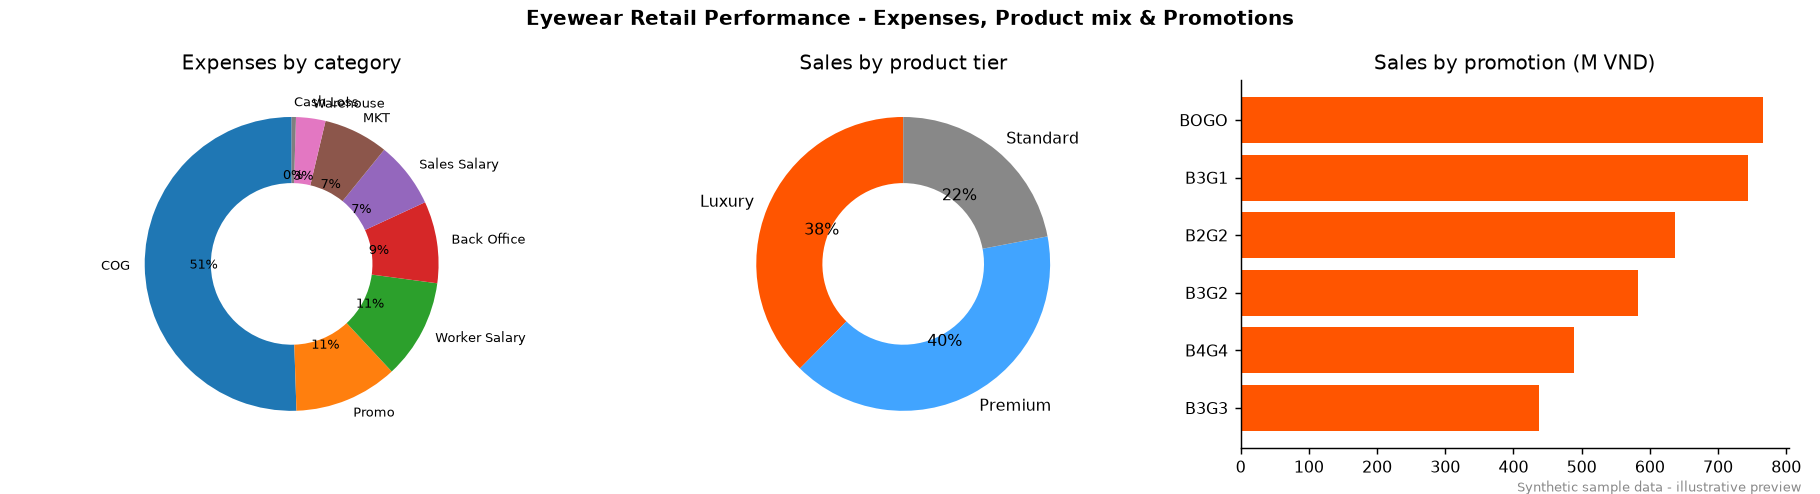
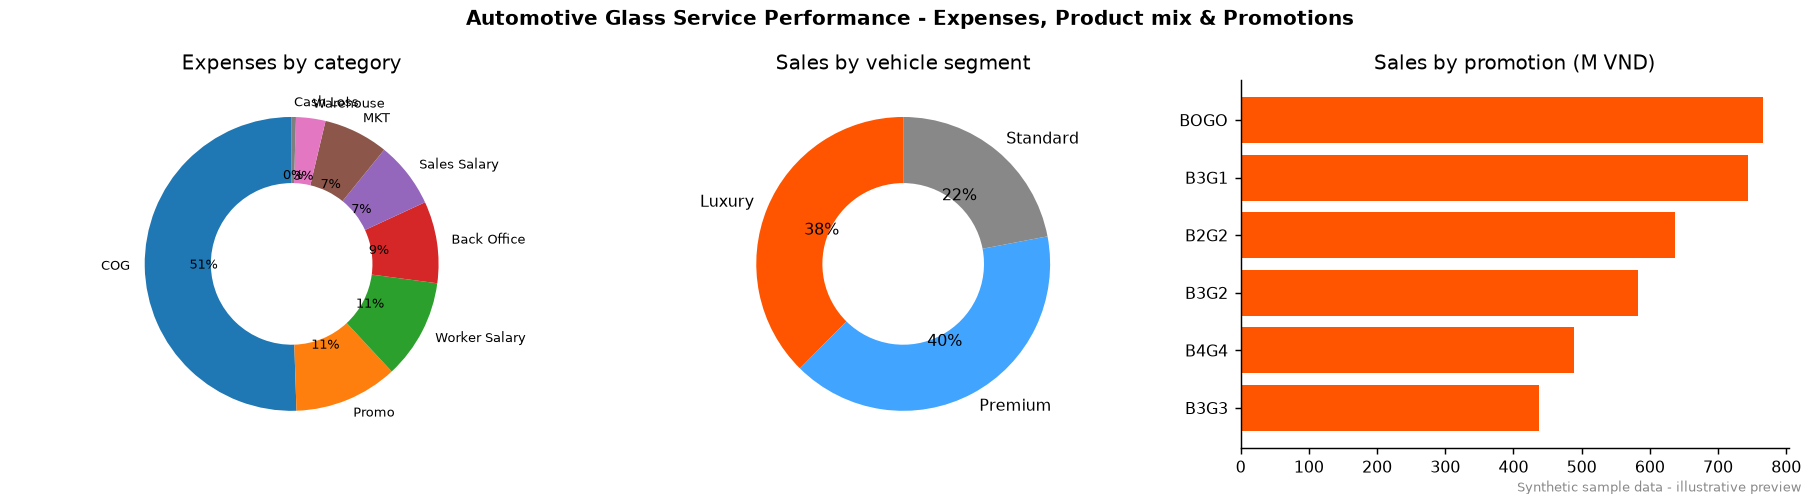
Correct Kieng dashboard description: automotive glass service business

Changed region(s): [[0.2462, 0.0, 0.7385, 0.0607], [0.4308, 0.0911, 0.5846, 0.1518]]

diff --git a/tools/generate.py b/tools/generate.py
@@ -28,7 +28,7 @@ def note(fig): fig.text(0.99, 0.005, "Synthetic sample data - illustrative previ
 
 # ============================ RETAIL STORE PERFORMANCE ============================
 stores = pd.DataFrame({"store_id": ["S1", "S2", "S3", "S4"],
-                       "store_name": ["Store 1 - District 1", "Store 2 - District 3", "Store 3 - District 7", "Store 4 - Thu Duc"],
+                       "store_name": ["Branch 1 - District 1", "Branch 2 - District 3", "Branch 3 - District 7", "Branch 4 - Thu Duc"],
                        "size_factor": [1.3, 1.0, 0.9, 0.7]})
 stores.to_csv(os.path.join(RET, "data", "stores.csv"), index=False)
 promos = pd.DataFrame({"promotion_name": ["None", "BOGO", "B2G2", "B3G1", "B3G2", "B3G3", "B4G4"],
@@ -52,7 +52,7 @@ for d in cal.date:
             rows.append((oid, d.date(), s.store_id, tier, promo, amount, round(base * share * 0.4 / 1000) * 1000 if promo != "None" else 0,
                          round(amount * rng.uniform(.38, .46) / 1000) * 1000, rng.choice(staff)))
             oid += 1
-rev = pd.DataFrame(rows, columns=["order_id", "date", "store_id", "product_tier", "promotion_name", "amount_vnd", "promo_expense_vnd", "cogs_vnd", "sales_staff"])
+rev = pd.DataFrame(rows, columns=["order_id", "date", "store_id", "vehicle_segment", "promotion_name", "amount_vnd", "promo_expense_vnd", "cogs_vnd", "sales_staff"])
 rev.to_csv(os.path.join(RET, "data", "daily_revenue.csv"), index=False)
 rev["date"] = pd.to_datetime(rev.date); rev["m"] = rev.date.dt.month
 
@@ -89,7 +89,7 @@ m_profit = m_sales - m_exp
 mn = [p.strftime("%b") for p in months]
 
 # retail charts
-fig, ax = plt.subplots(1, 3, figsize=(14, 3.6)); fig.suptitle("Eyewear Retail Performance - Overview", fontweight="bold")
+fig, ax = plt.subplots(1, 3, figsize=(14, 3.6)); fig.suptitle("Automotive Glass Service Performance - Overview", fontweight="bold")
 ax[0].plot(mn, m_sales / 1e6, color=C["main"], marker="o", label="Sales"); ax[0].plot(mn, m_exp / 1e6, color=C["grey"], marker="o", label="Expenses")
 ax[0].set_title("Sales vs Expenses (M VND)"); ax[0].legend(frameon=False)
 ax[1].bar(mn, m_profit / 1e6, color=[C["green"] if v >= 0 else C["red"] for v in m_profit]); ax[1].set_title("Profit by month (M VND)")
@@ -97,20 +97,20 @@ mom = m_sales.pct_change() * 100
 ax[2].bar(mn[1:], mom.iloc[1:], color=[C["green"] if v >= 0 else C["red"] for v in mom.iloc[1:]]); ax[2].set_title("Sales MoM %"); ax[2].axhline(0, color="#333", lw=.6)
 plt.setp(ax, xlabel=""); [a.tick_params(axis="x", rotation=45) for a in ax]; note(fig); fig.tight_layout(); fig.savefig(os.path.join(RET, "images", "01-overview.png"), dpi=130); plt.close(fig)
 
-fig, ax = plt.subplots(1, 3, figsize=(14, 3.8)); fig.suptitle("Eyewear Retail Performance - Expenses, Product mix & Promotions", fontweight="bold")
+fig, ax = plt.subplots(1, 3, figsize=(14, 3.8)); fig.suptitle("Automotive Glass Service Performance - Expenses, Product mix & Promotions", fontweight="bold")
 cat = exp.groupby("category").amount_vnd.sum().sort_values(ascending=False)
 ax[0].pie(cat, labels=cat.index, autopct="%1.0f%%", startangle=90, wedgeprops=dict(width=.45), textprops={"fontsize": 7}); ax[0].set_title("Expenses by category")
-tier = rev.groupby("product_tier").amount_vnd.sum()
-ax[1].pie(tier, labels=tier.index, autopct="%1.0f%%", startangle=90, wedgeprops=dict(width=.45), colors=[C["main"], C["blue"], C["grey"]]); ax[1].set_title("Sales by product tier")
+tier = rev.groupby("vehicle_segment").amount_vnd.sum()
+ax[1].pie(tier, labels=tier.index, autopct="%1.0f%%", startangle=90, wedgeprops=dict(width=.45), colors=[C["main"], C["blue"], C["grey"]]); ax[1].set_title("Sales by vehicle segment")
 pr = rev[rev.promotion_name != "None"].groupby("promotion_name").amount_vnd.sum().sort_values()
 ax[2].barh(pr.index, pr / 1e6, color=C["main"]); ax[2].set_title("Sales by promotion (M VND)")
 note(fig); fig.tight_layout(); fig.savefig(os.path.join(RET, "images", "02-expenses-promotions.png"), dpi=130); plt.close(fig)
 
-fig, ax = plt.subplots(1, 2, figsize=(14, 3.6)); fig.suptitle("Eyewear Retail Performance - Staff KPI & Stores", fontweight="bold")
+fig, ax = plt.subplots(1, 2, figsize=(14, 3.6)); fig.suptitle("Automotive Glass Service Performance - Staff KPI & Branches", fontweight="bold")
 piv = kpi.pivot(index="month", columns="staff", values="total_made_vnd") / 1e6
 piv.plot(kind="bar", ax=ax[0], width=.85); ax[0].axhline(200, color="#333", ls="--", lw=.8); ax[0].set_title("Total made by staff vs KPI target (M VND)"); ax[0].legend(frameon=False, ncol=5, fontsize=7); ax[0].set_xticklabels(mn, rotation=45)
 ss = rev.merge(stores, on="store_id").groupby("store_name").amount_vnd.sum().sort_values()
-ax[1].barh(ss.index, ss / 1e6, color=C["main"]); ax[1].set_title("Annual sales by store (M VND)")
+ax[1].barh(ss.index, ss / 1e6, color=C["main"]); ax[1].set_title("Annual sales by branch (M VND)")
 note(fig); fig.tight_layout(); fig.savefig(os.path.join(RET, "images", "03-staff-stores.png"), dpi=130); plt.close(fig)
 
 best = m_sales.idxmax(); worst = m_sales.idxmin()
@@ -132,13 +132,13 @@ open(os.path.join(RET, "reports", "sample-annual-report-2025.md"), "w", encoding
 ## Highlights
 - Peak month: **{mn[best-1]}** ({m_sales[best]/1e6:,.0f} M VND); weakest month: **{mn[worst-1]}** ({m_sales[worst]/1e6:,.0f} M VND). Sales are seasonal, rising toward year-end.
 - COG is the largest cost block at {cogp:.0%} of sales; promotions cost {cat['Promo']/m_sales.sum():.1%} of sales.
-- Best performing promotion by sales: **{top_promo}**. Best store: **{top_store}**.
+- Best performing promotion by sales: **{top_promo}**. Best branch: **{top_store}**.
 - {int((kpi.kpi_achievement>=1).sum())} of {len(kpi)} staff-months reached the KPI target.
 
 ## Recommended actions (example format)
 1. Review promotion mix: compare sales lift against promo expense per promotion before extending budgets.
 2. Prepare inventory and staffing earlier for the Nov-Dec peak.
-3. Track cash-loss lines monthly per store to find outliers early.
+3. Track cash-loss lines monthly per branch to find outliers early.
 """)
 
 # ============================ CAR RENTAL OVERVIEW ============================
@@ -224,4 +224,6 @@ open(os.path.join(CAR, "reports", "sample-annual-report-2025.md"), "w", encoding
 """)
 print("done", len(rev), len(rw))
 print(m_sales.sum() / 1e6, m_profit.sum() / 1e6, r_rev.sum(), r_profit.sum())
+
+
 

diff --git a/projects/retail-store-performance-powerbi/README.md b/projects/retail-store-performance-powerbi/README.md
@@ -1,4 +1,4 @@
-# Eyewear Retail Performance Dashboard (Kiếng) — Power BI
+# Automotive Glass Service Performance Dashboard (Kiếng) — Power BI
 
 **Tools:** Power BI (data modeling, DAX, Power Query), Excel
 **Currency:** VND · **Period shown:** 2025 (synthetic)
@@ -6,20 +6,20 @@
 > ⚠ **About the data.** The original dashboard was built for a real employer, so its data is confidential and is not published. All data in this folder is **synthetic**, randomly generated with the same table structure and the same kind of metrics as the real model. Charts below are *illustrative previews* made from that synthetic data; they are not screenshots of the production report and the numbers are not real business results.
 
 ## Business problem
-Management needed one place to monitor daily and monthly performance of a multi-store eyewear (glasses) retail business: sales, every expense line, profit, promotion effectiveness and the sales team's KPIs, with month-over-month (MoM) comparison.
+Management needed one place to monitor daily and monthly performance of a multi-location automotive glass (windshield and car window) sales and installation business: sales, every expense line, profit, promotion effectiveness and the sales team's KPIs, with month-over-month (MoM) comparison.
 
 ## Dashboard structure (3 pages)
 | Page | What it shows |
 |---|---|
-| **Overview** | Total sales, total expenses, profit and % profit margin vs. same period last month (SPLM); sales by product tier (Luxury / Premium / Standard eyewear); sales & expenses, profit and quantity trendlines; expenses breakdown (COG, Back Office, MKT, Warehouse, Cash Loss, Promo, Sales/Worker salary); sales by promotion (BOGO, B2G2, B3G1, B3G2, B3G3, B4G4…) |
-| **Worker** | Per-employee total made vs. previous month, KPI achievement, bonus and total salary, with month/year slicers |
-| **Location** | Map of sales by store address with expense breakdown per location |
+| **Overview** | Total sales, total expenses, profit and % profit margin vs. same period last month (SPLM); sales by vehicle segment (Luxury / Premium / Standard); sales & expenses, profit and quantity trendlines; expenses breakdown (COG, Back Office, MKT, Warehouse, Cash Loss, Promo, Sales/Worker salary); sales by promotion (BOGO, B2G2, B3G1, B3G2, B3G3, B4G4…) |
+| **Worker** | Per-employee (sales and installation staff) total made vs. previous month, KPI achievement, bonus and total salary, with month/year slicers |
+| **Location** | Map of sales by branch address with expense breakdown per location |
 
 Features: calendar table with date hierarchy, page-navigation buttons, month/year slicers, conditional formatting (up/down arrows, colour scales), tooltips.
 
 ## Data model (star schema)
 `daily_revenue` (fact) · `expenses` (fact) · `staff_kpi` · `stores` · `promotions` · `calendar`
-CSV files in [`data/`](data) (≈9,000 synthetic orders, 4 stores, 5 staff).
+CSV files in [`data/`](data) (≈9,000 synthetic orders, 4 branches, 5 staff).
 
 Measures in the model (names): Total Sales, Sales Same Day Last Month, Total Expenses, COG / MKT / Back-office / Warehouse / Promo expenses, Cash Loss, Profit, % Profit Margin, vs-profit-SPLM, Total Luxury / Premium (+SPLM), Total Made, KPIs, Bonus, Total Salary.
 
@@ -33,4 +33,5 @@ Measures in the model (names): Total Sales, Sales Same Day Last Month, Total Exp
 
 ## How to reproduce
 Load the CSVs into Power BI Desktop (Get Data → Text/CSV), relate `daily_revenue[date]` and `expenses[month]` to `calendar`, `store_id` to `stores`, then build the measures above. The generator script is in [`/tools/generate.py`](../../tools/generate.py).
+
 

diff --git a/README.md b/README.md
@@ -12,13 +12,13 @@ Data Analyst with an Economics background (UEH, Investment Economics, GPA 3.6/4.
 
 | Project | Tools | Focus |
 |---|---|---|
-| [**Eyewear Retail Performance Dashboard**](projects/retail-store-performance-powerbi) | Power BI, DAX, Power Query | Sales, expenses, profit, promotions and staff KPIs across eyewear stores *(synthetic data)* |
+| [**Automotive Glass Service Dashboard**](projects/retail-store-performance-powerbi) | Power BI, DAX, Power Query | Sales, expenses, profit, promotions and staff KPIs across automotive glass branches *(synthetic data)* |
 | [**Car Rental Overview Dashboard**](projects/car-rental-overview-powerbi) | Power BI, DAX, Power Query | Revenue, expense groups, profit, fleet status and customer debt *(synthetic data)* |
 | [**LG Social Listening Dashboard**](projects/lg-social-listening-powerbi) | Power BI | Brand sentiment, content & demographic analysis, competitor benchmarking (washing machines) |
 | [**PayTM Customer Purchasing Analysis**](projects/paytm-customer-analysis-sql) | SQL (T-SQL), Excel | Top products, promotion effectiveness, Cohort retention, RFM segmentation |
 | [**Azuz Customer Behavior Analysis**](projects/azuz-customer-behavior-sql) | SQL (T-SQL) | Purchase patterns, gold-membership impact, loyalty-points program |
 
-> **Data note:** the two employer dashboards (Eyewear Retail, Car Rental) use **synthetic data** generated for this portfolio to protect confidential company information. Their charts are illustrative previews, not production screenshots. The SQL projects and the LG Social Listening report are based on the original course/academic datasets.
+> **Data note:** the two employer dashboards (Automotive Glass, Car Rental) use **synthetic data** generated for this portfolio to protect confidential company information. Their charts are illustrative previews, not production screenshots. The SQL projects and the LG Social Listening report are based on the original course/academic datasets.
 
 Source repositories: [Project-PAYTM](https://github.com/hongnganguyen/Project-PAYTM) · [Project-Azuz-Web](https://github.com/hongnganguyen/Project-Azuz-Web)
 
@@ -44,5 +44,6 @@ Source repositories: [Project-PAYTM](https://github.com/hongnganguyen/Project-PA
 - 3rd Prize, E-research Award 2022 (Faculty of Economics) · 2nd Prize, UEH Young Researcher 2022 · 3 GPA scholarships
 - IC3 Certificate · TOEIC 715
 - Courses: SQL & Python for Data Analysis (MazHocData), Excel for Analysis and Power BI Essential (Vy Le Training), Finance for Leaders (PACE Training)
+
 
 

diff --git a/projects/retail-store-performance-powerbi/reports/sample-annual-report-2025.md b/projects/retail-store-performance-powerbi/reports/sample-annual-report-2025.md
@@ -14,10 +14,10 @@
 ## Highlights
 - Peak month: **Dec** (1,150 M VND); weakest month: **Feb** (585 M VND). Sales are seasonal, rising toward year-end.
 - COG is the largest cost block at 42% of sales; promotions cost 9.5% of sales.
-- Best performing promotion by sales: **BOGO**. Best store: **Store 1 - District 1**.
+- Best performing promotion by sales: **BOGO**. Best branch: **Branch 1 - District 1**.
 - 12 of 60 staff-months reached the KPI target.
 
 ## Recommended actions (example format)
 1. Review promotion mix: compare sales lift against promo expense per promotion before extending budgets.
 2. Prepare inventory and staffing earlier for the Nov-Dec peak.
-3. Track cash-loss lines monthly per store to find outliers early.
+3. Track cash-loss lines monthly per branch to find outliers early.
